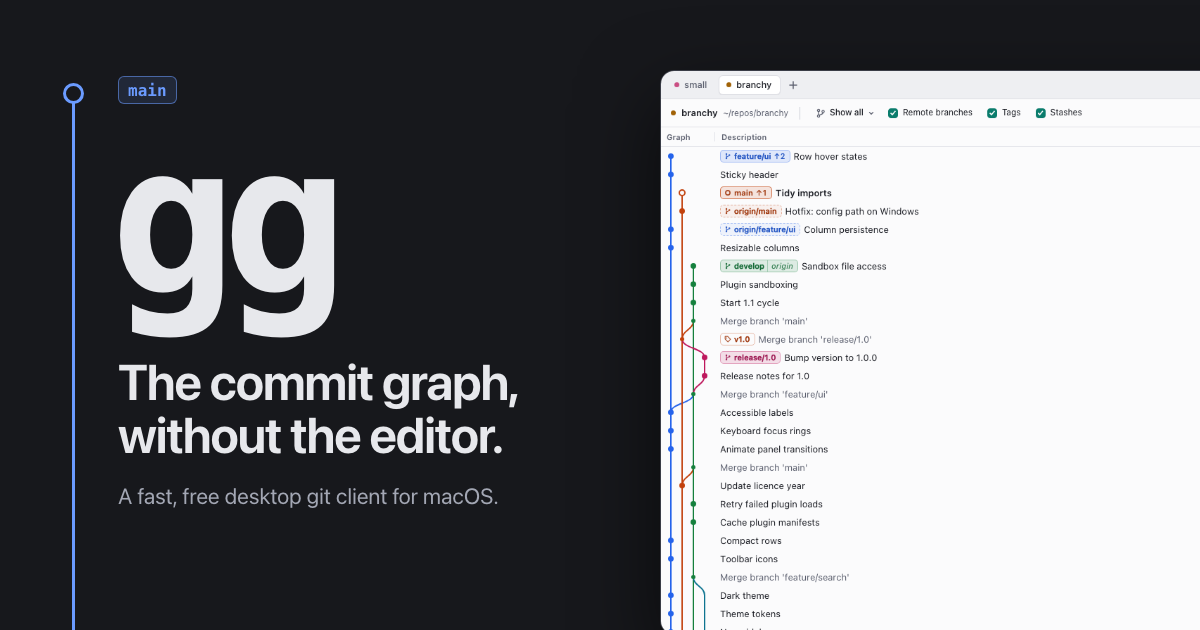
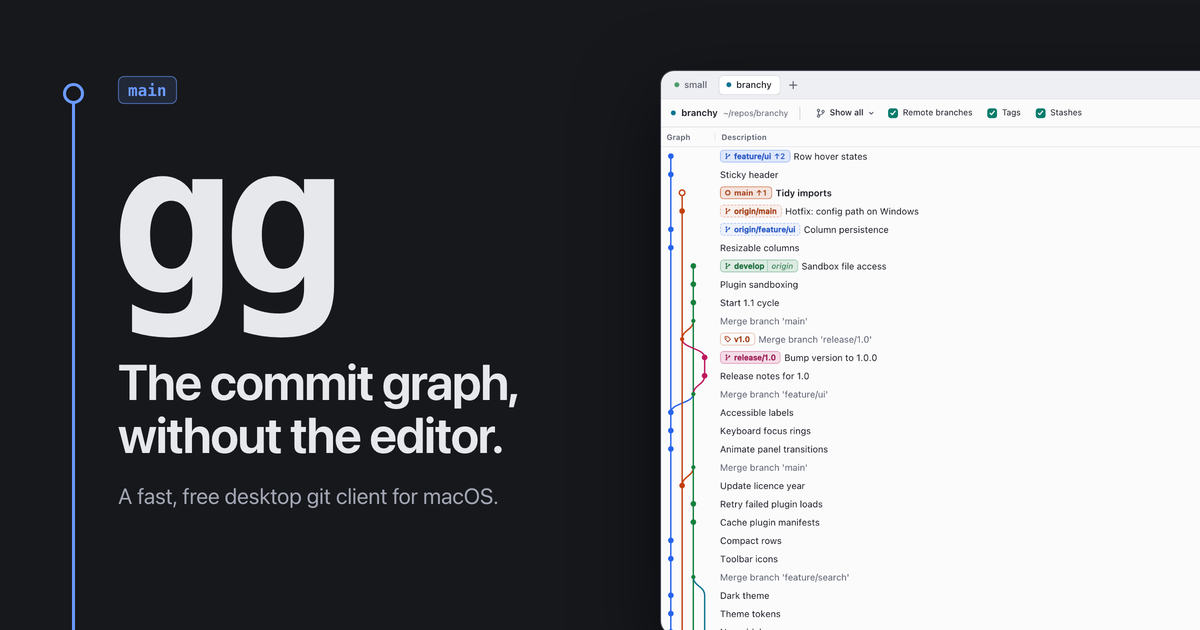
feat(site): the social preview is drawn at 2x from the 2x capture and scaled to 1200x630

Changed region(s): [[0.7708, 0.1508, 0.8017, 0.181], [0.6167, 0.3317, 0.6475, 0.3619], [0.6167, 0.2714, 0.6475, 0.3016]]

diff --git a/site/og/og.html b/site/og/og.html
@@ -34,6 +34,6 @@
     <p class="pitch">The commit graph, without the editor.</p>
     <p class="sub">A fast, free desktop git client for macOS.</p>
   </div>
-  <div class="shot"><img src="../../docs/perf/screens/graph-branchy-light.png" alt=""></div>
+  <div class="shot"><img src="../.shots/2x/graph-branchy-light.png" alt=""></div>
 </body>
 </html>
